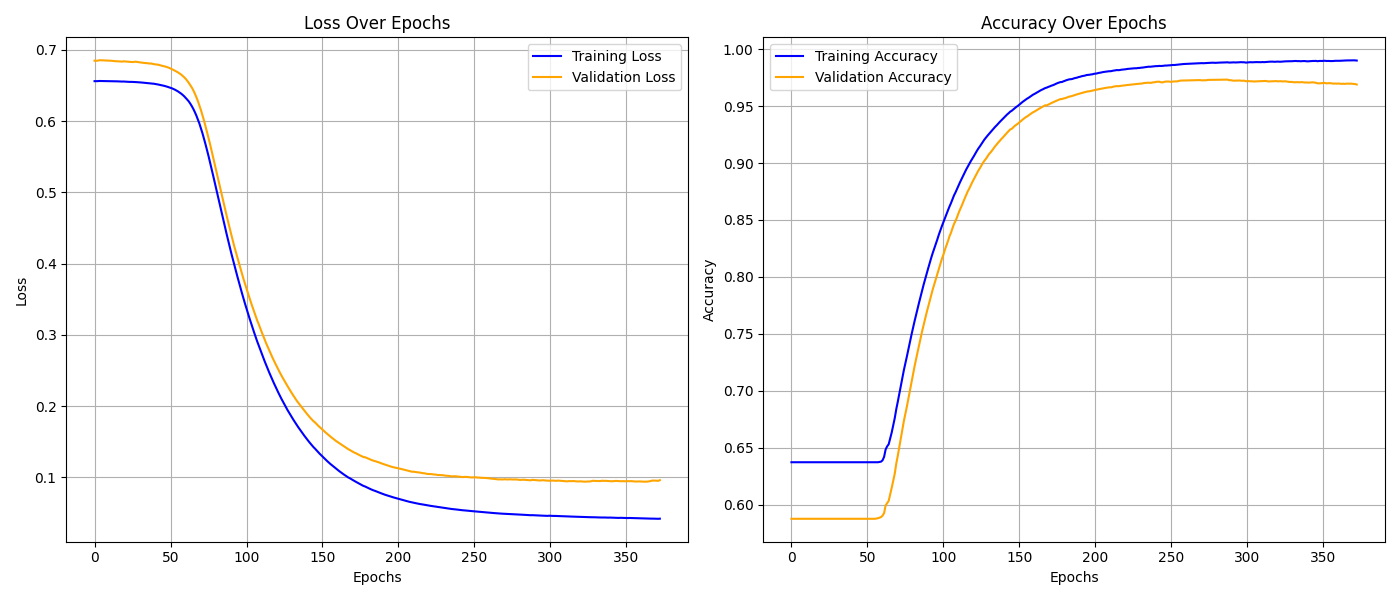
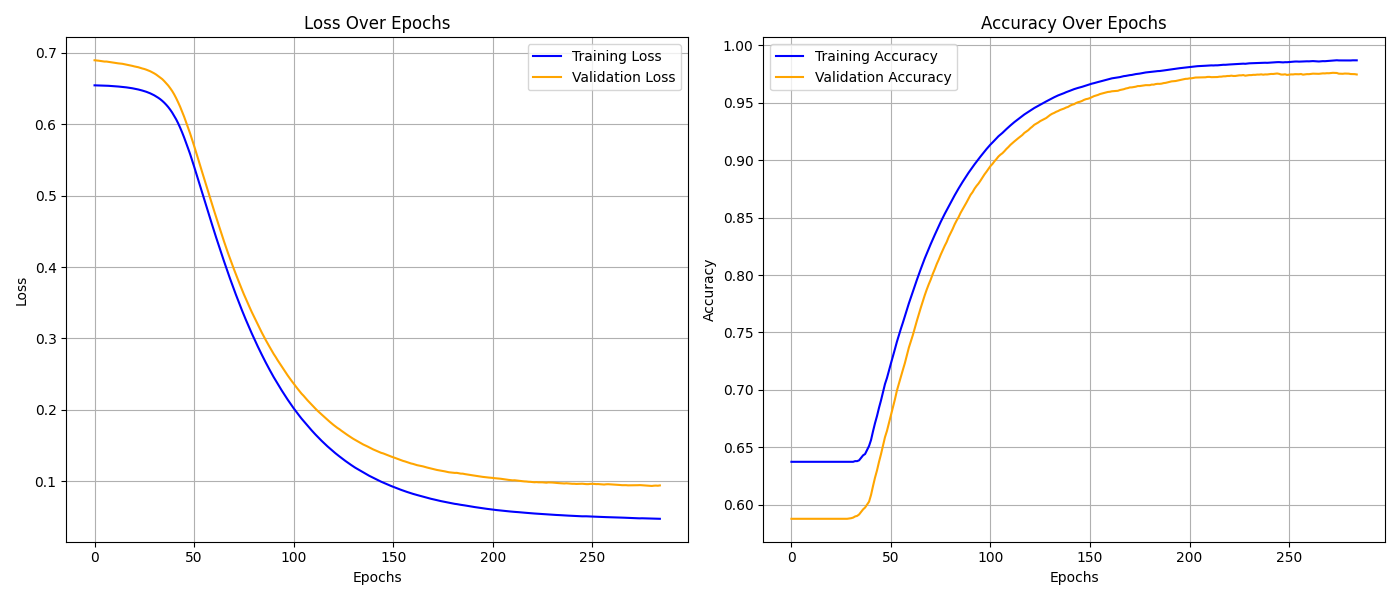
number case accuracy correction

diff --git a/WDBC_case/srcs/training/train.py b/WDBC_case/srcs/training/train.py
@@ -36,6 +36,10 @@ class Training:
         self.weight_initializer = args.weight_initializer
         self.num_inputs = args.num_inputs
         self.num_outputs = args.num_outputs
+
+        self.best_accuracy = 0
+        self.best_val_loss = float('inf')
+        self.best_parameters = None
         
         self.print_variables() # TEST
         
@@ -66,7 +70,11 @@ class Training:
             'normalization_std': self.training_data.std(),
             'normalization_min': self.training_data.min(),
             'normalization_max': self.training_data.max()
-        }        
+        }
+
+        if self.best_parameters is not None:
+            self.parameters = self.best_parameters
+
         Utils.save_model(MODEL_PATH, MODEL_FILE, self.parameters, self.model_config)
 
 
@@ -120,10 +128,18 @@ class Training:
             self.losses_train.append(loss_train)
             self.accuracies_train.append(accuracy_train)
 
+            A_val, _ = self.forward_propagation(self.parameters, X_val)
+            loss_val = Cost.compute_loss(A_val, Y_val, self.loss)
+            accuracy_val = self.compute_accuracy(A_val, Y_val)
+
+            print(f"Epoch {epoch+1}/{self.epochs} | Loss: {loss_train:.4f} "
+                  f"| Training Accuracy: {accuracy_train*100:.2f}% "
+                  f"| Validation Loss: {loss_val:.4f} | Validation Accuracy: {accuracy_val*100:.2f}%")
+
             if self.validate_training(X_val, Y_val, epoch) == True:
                 break
 
-            if epoch % 200 == 0 or epoch == self.epochs - 1:
+            if epoch % 100 == 0 or epoch == self.epochs - 1:
                 self.print_predictions_comparison(A_train, Y, num_samples=30)
 
 
@@ -132,22 +148,31 @@ class Training:
         A_val, _ = self.forward_propagation(self.parameters, X_val)
         val_loss = Cost.compute_loss(A_val, Y_val, self.loss)
         val_accuracy = self.compute_accuracy(A_val, Y_val)
-        
+
+        if val_accuracy > self.best_accuracy or (val_accuracy == self.best_accuracy and val_loss < self.best_val_loss):
+            self.best_accuracy = val_accuracy
+            self.best_val_loss = val_loss
+            self.best_parameters = {k: v.copy() for k, v in self.parameters.items()}
+            print(f"New best model saved at epoch {epoch+1} with accuracy: {val_accuracy*100:.2f}% and loss: {val_loss:.4f}")
+
         self.losses_validation.append(val_loss)
         self.accuracies_validation.append(val_accuracy)
         
-        if self.early_stopping(epoch) == True:
+        if self.early_stopping(epoch, val_loss, val_accuracy) == True:
             return True
 
-        if epoch % 200 == 0 or epoch == self.epochs - 1:
+        if epoch % 100 == 0:
             print(f"Validation Loss: {val_loss:.4f} | Validation Accuracy: {val_accuracy*100:.2f}%")
-            
+
+        if epoch == self.epochs - 1:
+            print(f"Final epoch: Validation Loss: {self.best_val_loss:.4f} | Validation Accuracy: {self.best_accuracy*100:.2f}%")
+
         return False
         
 
-    def early_stopping(self, epoch) -> bool:
+    def early_stopping(self, epoch, val_loss, val_accuracy) -> bool:
         """ Check if the model should stop training early """
-        if EARLY_STOPPING_LIMIT == 0:
+        if EARLY_STOPPING_LIMIT == 0 or EARLY_STOPPING_LIMIT is None:
             return False
         if epoch > EARLY_STOPPING_LIMIT:
             last_losses = self.losses_validation[-EARLY_STOPPING_LIMIT:]
@@ -156,6 +181,7 @@ class Training:
             
             if all(current_loss > prev_loss for prev_loss in previous_losses):
                 print(f"\nEarly stopping triggered at epoch {epoch}")
+                print(f"Validation Loss: {self.best_val_loss:.4f} | Validation Accuracy: {self.best_accuracy*100:.2f}%")
                 return True
         
         return False

diff --git a/WDBC_case/config_g.py b/WDBC_case/config_g.py
@@ -26,4 +26,4 @@ EPOCHS = 84
 LOSS = 'binaryCrossentropy'
 LEARNING_RATE = 0.1
 BATCH_SIZE = 50
-EARLY_STOPPING_LIMIT = 150
+EARLY_STOPPING_LIMIT = 50
